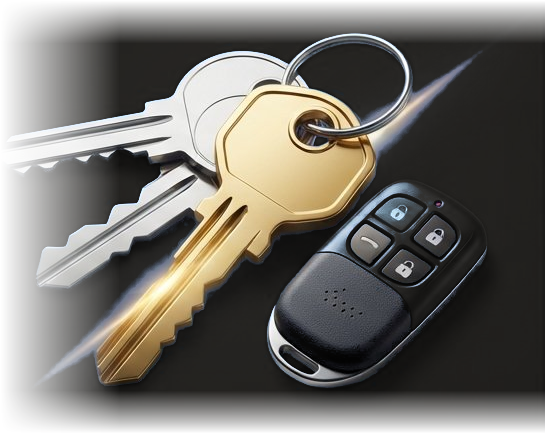
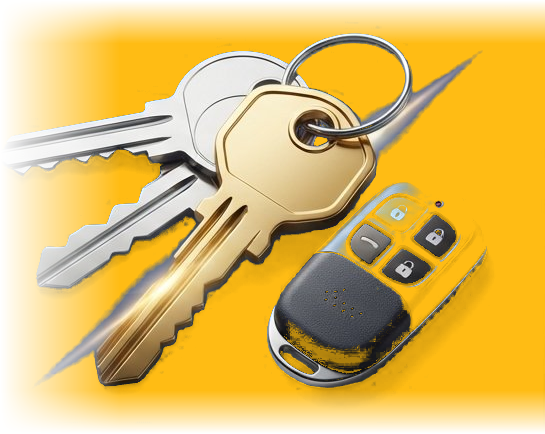
Navidad: estilo 3 dorado luminoso (sin negro), pulido de los 4 estilos
Claude-Session: https://claude.ai/code/session_01SXQ2G67n1zthcvrG685rs1

diff --git a/navidad.js b/navidad.js
@@ -17,7 +17,7 @@
   var T = {
     '1': {dark:true,  a:'#FFD43B', a2:'#F5B400', head:'#0A1530', cinta:'#07102a', hero:'linear-gradient(105deg,#050b1d 0%,#0a1a40 38%,#0b2a5c 64%,#0e2a58 100%)', band:'linear-gradient(180deg,#0b1a3a,#10244f 60%,#0a1630)', bg:'#070b18', bg2:'#0a1226', l1:'#FFD43B', l2:'#FFFFFF', sky1:'#0b1a3d', sky2:'#1d3f80', ink:'#0A1530', panel:'', swag:'#1f7a4d', swag2:'#E5303F'},
     '2': {dark:false, a:'#FFD43B', a2:'#F5B400', head:'#9E1B26', cinta:'#7a1019', hero:'linear-gradient(105deg,#5a0a13 0%,#98192a 40%,#8a1824 64%,#78151f 100%)', band:'linear-gradient(100deg,#b3202d 0%,#8a1420 55%,#6e0f19 100%)', bg:'#FBF7F0', bg2:'#F3ECDF', l1:'#FF4655', l2:'#FFE9A8', sky1:'#4a0a12', sky2:'#8a1c28', ink:'#6e0f19', panel:'linear-gradient(160deg,#a51f2c 0%,#7d1019 55%,#5a0a13 100%)', swag:'#1f7a4d', swag2:'#FFD43B'},
-    '3': {dark:true,  a:'#FFD21F', a2:'#F5B400', head:'#0B0B0D', cinta:'#000', hero:'linear-gradient(105deg,#030303 0%,#0b0b0b 50%,#161513 100%)', band:'linear-gradient(180deg,#151515,#0a0a0a)', bg:'#080808', bg2:'#101010', l1:'#FFD21F', l2:'#FFF4C2', sky1:'#0a0a0b', sky2:'#26241f', ink:'#0B0B0D', panel:'linear-gradient(180deg,#171717,#050505)', swag:'#E8B800', swag2:'#FFF1B0'},
+    '3': {dark:false, gold:true, a:'#E8B50C', a2:'#C98A06', head:'#F7E7A6', cinta:'#D9A216', hero:'linear-gradient(105deg,#FFF0B8 0%,#FBD65A 34%,#F2BE2E 64%,#E8A90E 100%)', band:'linear-gradient(100deg,#FFF0B8 0%,#F8CF4E 46%,#E3A511 100%)', bg:'#FFFAEB', bg2:'#FBEFC8', l1:'#E5303F', l2:'#E8B50C', sky1:'#0f2350', sky2:'#2a4a8a', ink:'#2b1d00', panel:'linear-gradient(180deg,#FFF0B8 0%,#F6CB48 62%,#E3A511 100%)', swag:'#1f7a4d', swag2:'#E5303F'},
     '4': {dark:false, a:'#FFD43B', a2:'#F5B400', head:'#0d5a33', cinta:'#9E1B26', hero:'linear-gradient(105deg,#052e19 0%,#0b5530 42%,#116a3b 68%,#0f5f35 100%)', band:'linear-gradient(100deg,#0e5a35 0%,#0b4a2b 52%,#8a1420 100%)', bg:'#F7FAF5', bg2:'#EAF1E7', l1:'#FF4655', l2:'#4FD18E', sky1:'#082b18', sky2:'#1b6b44', ink:'#06331d', panel:'linear-gradient(160deg,#0e5a35 0%,#07391f 55%,#8a1420 130%)', swag:'#1b7a49', swag2:'#E5303F'}
   }[estilo];
 
@@ -34,7 +34,7 @@
   '.hero-stats div span{color:#DCD5C3!important;}' +
   '.hero-bg-image{background:' + T.hero + '!important;}' +
   '.hero-photo-color{display:none!important;}' +
-  '.hero-key-photo{-webkit-mask-image:linear-gradient(90deg,transparent 0%,#000 40%),radial-gradient(ellipse 80% 78% at 58% 50%,#000 45%,rgba(0,0,0,.6) 65%,transparent 90%)!important;-webkit-mask-composite:source-in!important;mask-image:linear-gradient(90deg,transparent 0%,#000 40%),radial-gradient(ellipse 80% 78% at 58% 50%,#000 45%,rgba(0,0,0,.6) 65%,transparent 90%)!important;mask-composite:intersect!important;}' +
+  '.hero-key-photo{-webkit-mask-image:linear-gradient(90deg,transparent 0%,#000 40%,#000 93%,transparent 100%),radial-gradient(ellipse 80% 78% at 58% 50%,#000 45%,rgba(0,0,0,.6) 65%,transparent 90%)!important;-webkit-mask-composite:source-in!important;mask-image:linear-gradient(90deg,transparent 0%,#000 40%,#000 93%,transparent 100%),radial-gradient(ellipse 80% 78% at 58% 50%,#000 45%,rgba(0,0,0,.6) 65%,transparent 90%)!important;mask-composite:intersect!important;}' +
   '.hero h1{background:linear-gradient(100deg,#FFC62E 0%,#FFE27A 22%,#FFF8DC 34%,#FFD54A 48%,#FFC62E 60%,#FFE27A 74%,#FFF8DC 86%,#FFD54A 100%)!important;background-size:220% 100%!important;-webkit-background-clip:text!important;background-clip:text!important;color:transparent!important;}' +
   /* cinta superior */
   '.nv-cinta{background:' + T.cinta + ';color:#fff;border-bottom:1px solid rgba(255,255,255,.12);font:700 13px/1 Inter,sans-serif;letter-spacing:.04em;text-align:center;padding:9px 16px;}' +
@@ -106,6 +106,43 @@
     'body.nv-dark .drawer .qty-btn{background:#EEF3FA!important;color:#0F2038!important;}' +
     'body.nv-dark .drawer-remove{background:#fff!important;color:#E00210!important;}' +
     'body.nv-dark .drawer input,body.nv-dark .drawer select,body.nv-dark .drawer textarea,body.nv-dark .claim-box input,body.nv-dark .claim-box select,body.nv-dark .claim-box textarea{background:#fff!important;color:#0F2038!important;border-color:#DCE3EE!important;}';
+  }
+
+
+  /* estilo 3: dorado luminoso (sin negro) */
+  if (T.gold){
+    css += '' +
+    'body{background:linear-gradient(180deg,#FFFBEE,#FBEFC8 55%,#FFFBEE)!important;}' +
+    'header{background:linear-gradient(180deg,#FFFDF3,#F8E9AE)!important;border-bottom:3px solid #D9A216!important;}' +
+    'header .brand-text,header .brand-text b{color:#A06A00!important;text-shadow:none!important;}' +
+    'header .brand-sub{color:#6b4a00!important;}header .brand-rif{color:#4a3300!important;}' +
+    'header .nav-links a{color:#3b2800!important;}header .nav-links a:hover{color:#B07800!important;}' +
+    '.nv-cinta{background:linear-gradient(90deg,#CF9410,#F3C437 50%,#CF9410)!important;color:#2b1d00!important;border-bottom:1px solid rgba(90,61,0,.25)!important;}' +
+    '.nv-cinta b{color:#7a1019!important;}' +
+    '.hero{border-bottom:4px solid #C98A06!important;}' +
+    '.hero h1{background:linear-gradient(100deg,#4a3000 0%,#7a5200 40%,#4a3000 100%)!important;-webkit-background-clip:text!important;background-clip:text!important;color:transparent!important;filter:none!important;animation:none!important;}' +
+    '.hero p,.hero-stats div span{color:#4a3300!important;}' +
+    '.hero .eyebrow-badge{background:#3b2800!important;color:#FFD43B!important;border-color:#3b2800!important;}' +
+    '.hero .eyebrow-badge svg{color:#FFD43B!important;}' +
+    '.hl-tags .tag{border-color:#5a3d00!important;color:#3b2800!important;}.hl-tags .tag svg{color:#3b2800!important;}' +
+    '.hero .btn-primary{background:linear-gradient(180deg,#5a3d00,#3b2800)!important;color:#FFD43B!important;}' +
+    '.hero .btn-ghost{border-color:#5a3d00!important;color:#3b2800!important;}.hero .btn-ghost:hover{background:rgba(59,40,0,.08)!important;}' +
+    '.hero-stats div{background:rgba(255,255,255,.45)!important;border:1px solid rgba(90,61,0,.35)!important;}' +
+    '.hero-stats div b{color:#6b4400!important;}' +
+    '.hero-bg-image{background:none!important;}' +
+    '.hero-key-photo{filter:drop-shadow(0 10px 18px rgba(90,50,0,.45)) brightness(1.02) saturate(1.05)!important;}' +
+    '.nv-banda::before{background:radial-gradient(circle,rgba(255,255,255,.45) 0 1.4px,transparent 2px)!important;opacity:.7!important;}' +
+    '.nv-texto,.nv-texto h2{color:#2b1d00!important;}.nv-texto h2 span{color:#9E1B26!important;}.nv-texto p{color:#4a3300!important;}' +
+    '.nv-kicker{background:#3b2800!important;color:#FFD43B!important;}' +
+    '.nv-dias{background:rgba(255,255,255,.5)!important;border-color:#B07800!important;}.nv-dias b{color:#9E1B26!important;}.nv-dias small{color:#4a3300!important;}' +
+    '.nv-lado .nv-b1{background:linear-gradient(180deg,#5a3d00,#3b2800)!important;color:#FFD43B!important;}' +
+    '.game-panel{border-color:#B98300!important;}' +
+    '.game-panel h3,.game-panel > p,.game-msg{color:#2b1d00!important;}' +
+    '.reels{background:linear-gradient(160deg,#FFF7DA,#F3D56F)!important;border-color:#B98300!important;box-shadow:inset 0 3px 8px rgba(120,80,0,.25)!important;}' +
+    '.nv-badge{background:#3b2800!important;color:#FFD43B!important;}' +
+    '.chip.active{background:linear-gradient(180deg,#F5C938,#DFA010)!important;color:#2b1d00!important;border-color:#C98A06!important;}' +
+    '.section-head h2{color:#3b2800!important;}' +
+    '.nv-sel a{color:#fff;}.nv-sel a.on{background:#F5C938;color:#2b1d00;}';
   }
 
   var st = document.createElement('style'); st.textContent = css; document.head.appendChild(st);
@@ -298,7 +335,7 @@
     /* selector de estilo (solo en la vista previa) */
     if (window.NV_VISTA){
       var sel = document.createElement('div'); sel.className = 'nv-sel';
-      sel.innerHTML = [['1','1 · Noche navideña'],['2','2 · Rojo clásico'],['3','3 · Dorado y negro'],['4','4 · Verde y rojo']].map(function(o){
+      sel.innerHTML = [['1','1 · Noche navideña'],['2','2 · Rojo clásico'],['3','3 · Dorado'],['4','4 · Verde y rojo']].map(function(o){
         return '<a class="' + (o[0] === estilo ? 'on' : '') + '" href="?navidad=1&estilo=' + o[0] + '">' + o[1] + '</a>';
       }).join('');
       document.body.appendChild(sel);

diff --git a/vista-previa-navidad.html b/vista-previa-navidad.html
@@ -2191,6 +2191,6 @@ loadProducts();
 </script>
 <script src="halloween.js" defer></script>
 <script>window.NV_VISTA=true;</script>
-<script src="navidad.js?v=4" defer></script>
+<script src="navidad.js?v=5" defer></script>
 </body>
 </html>
